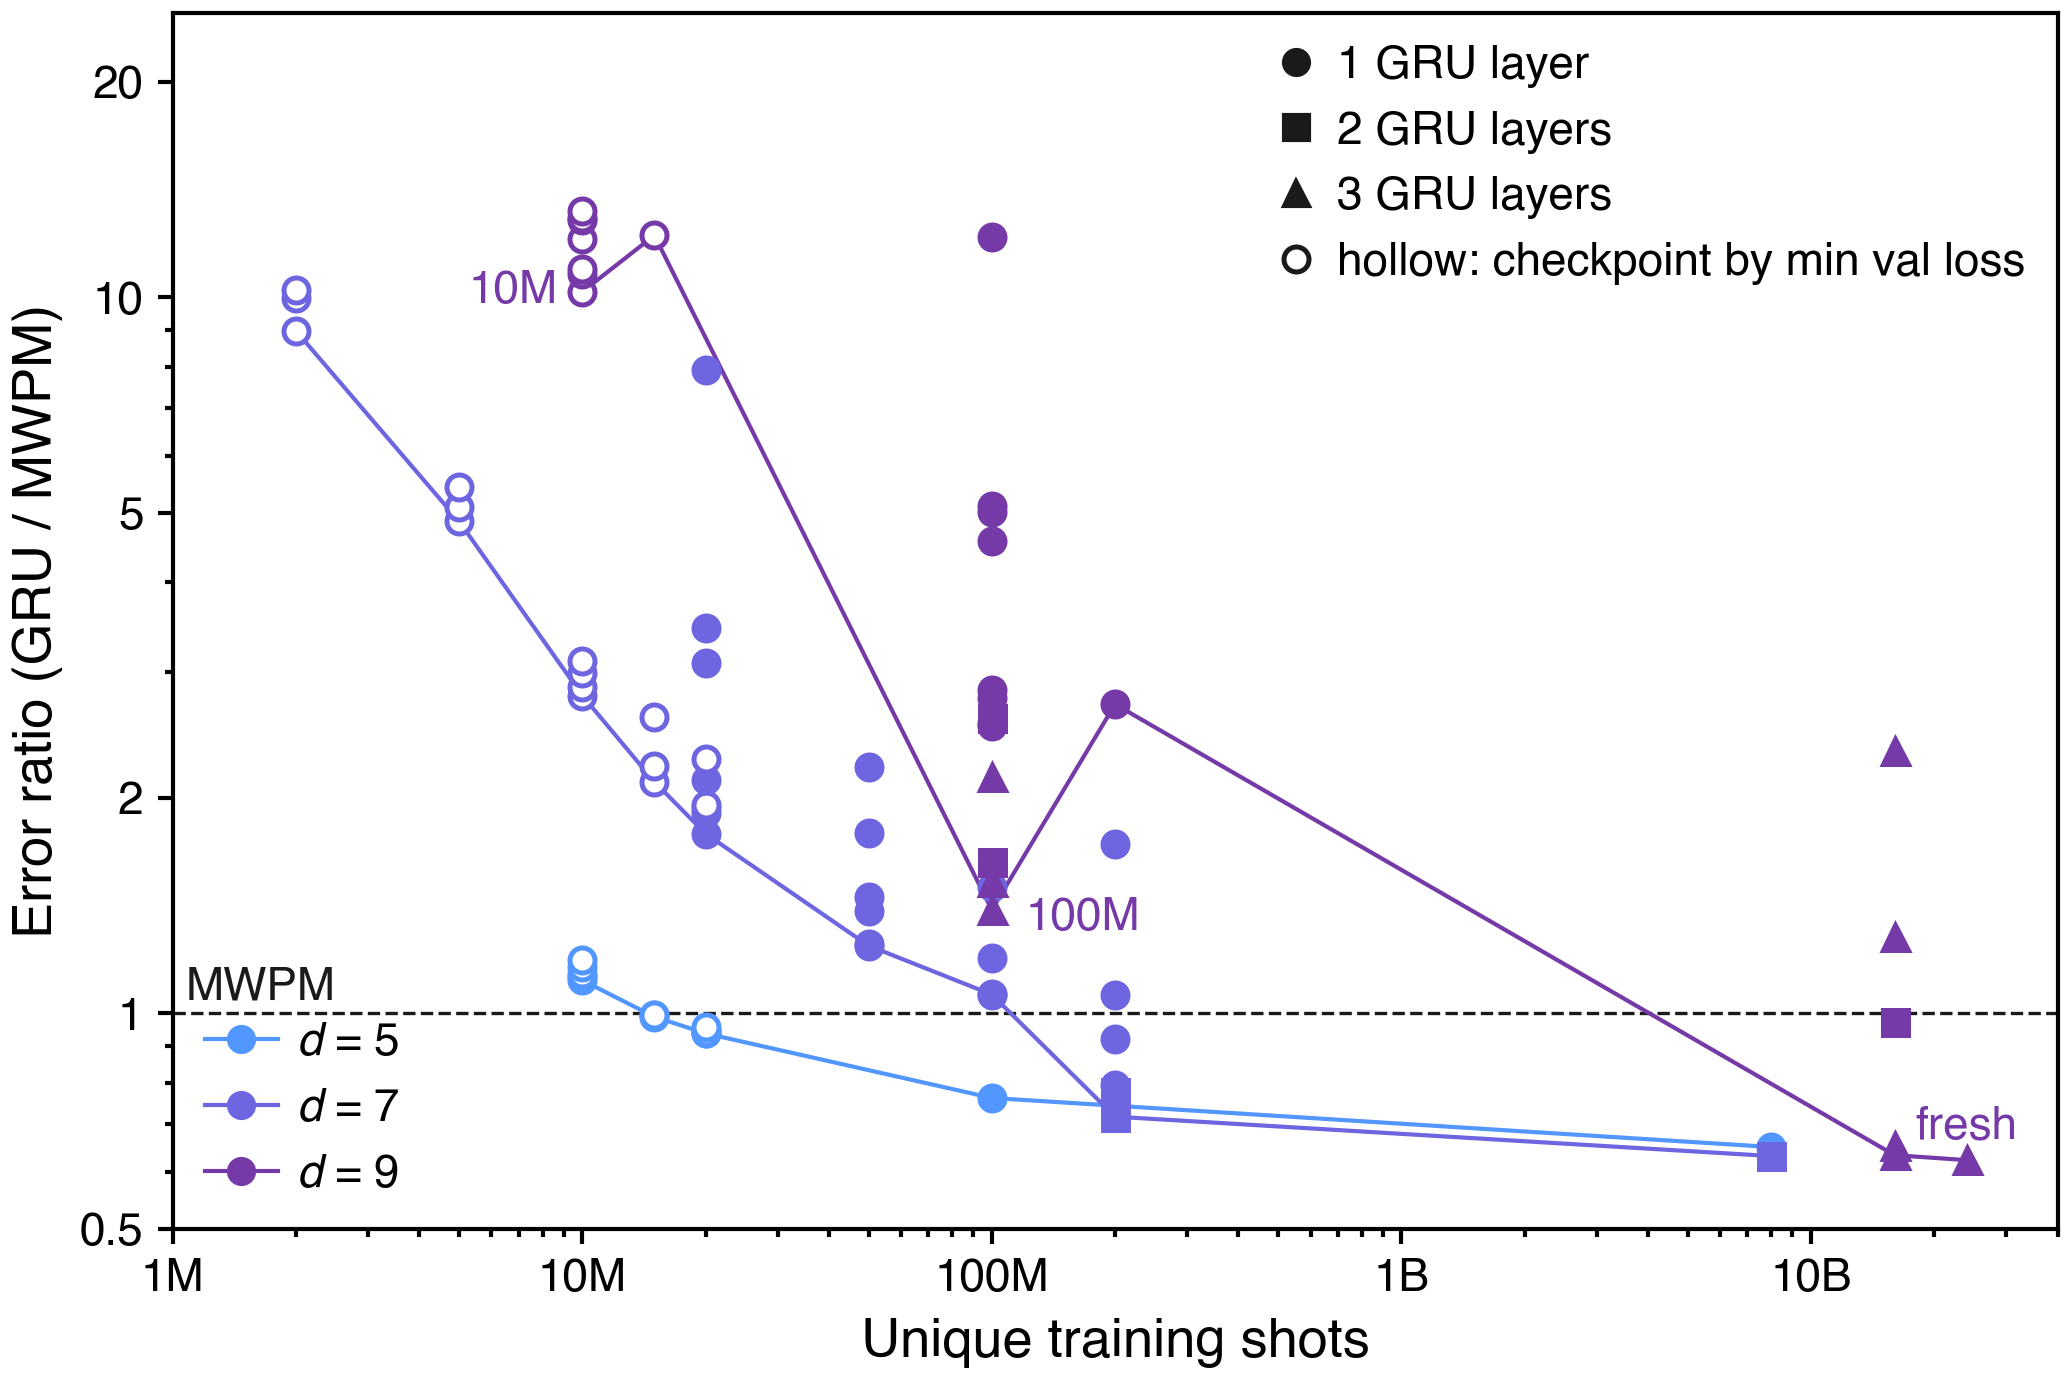
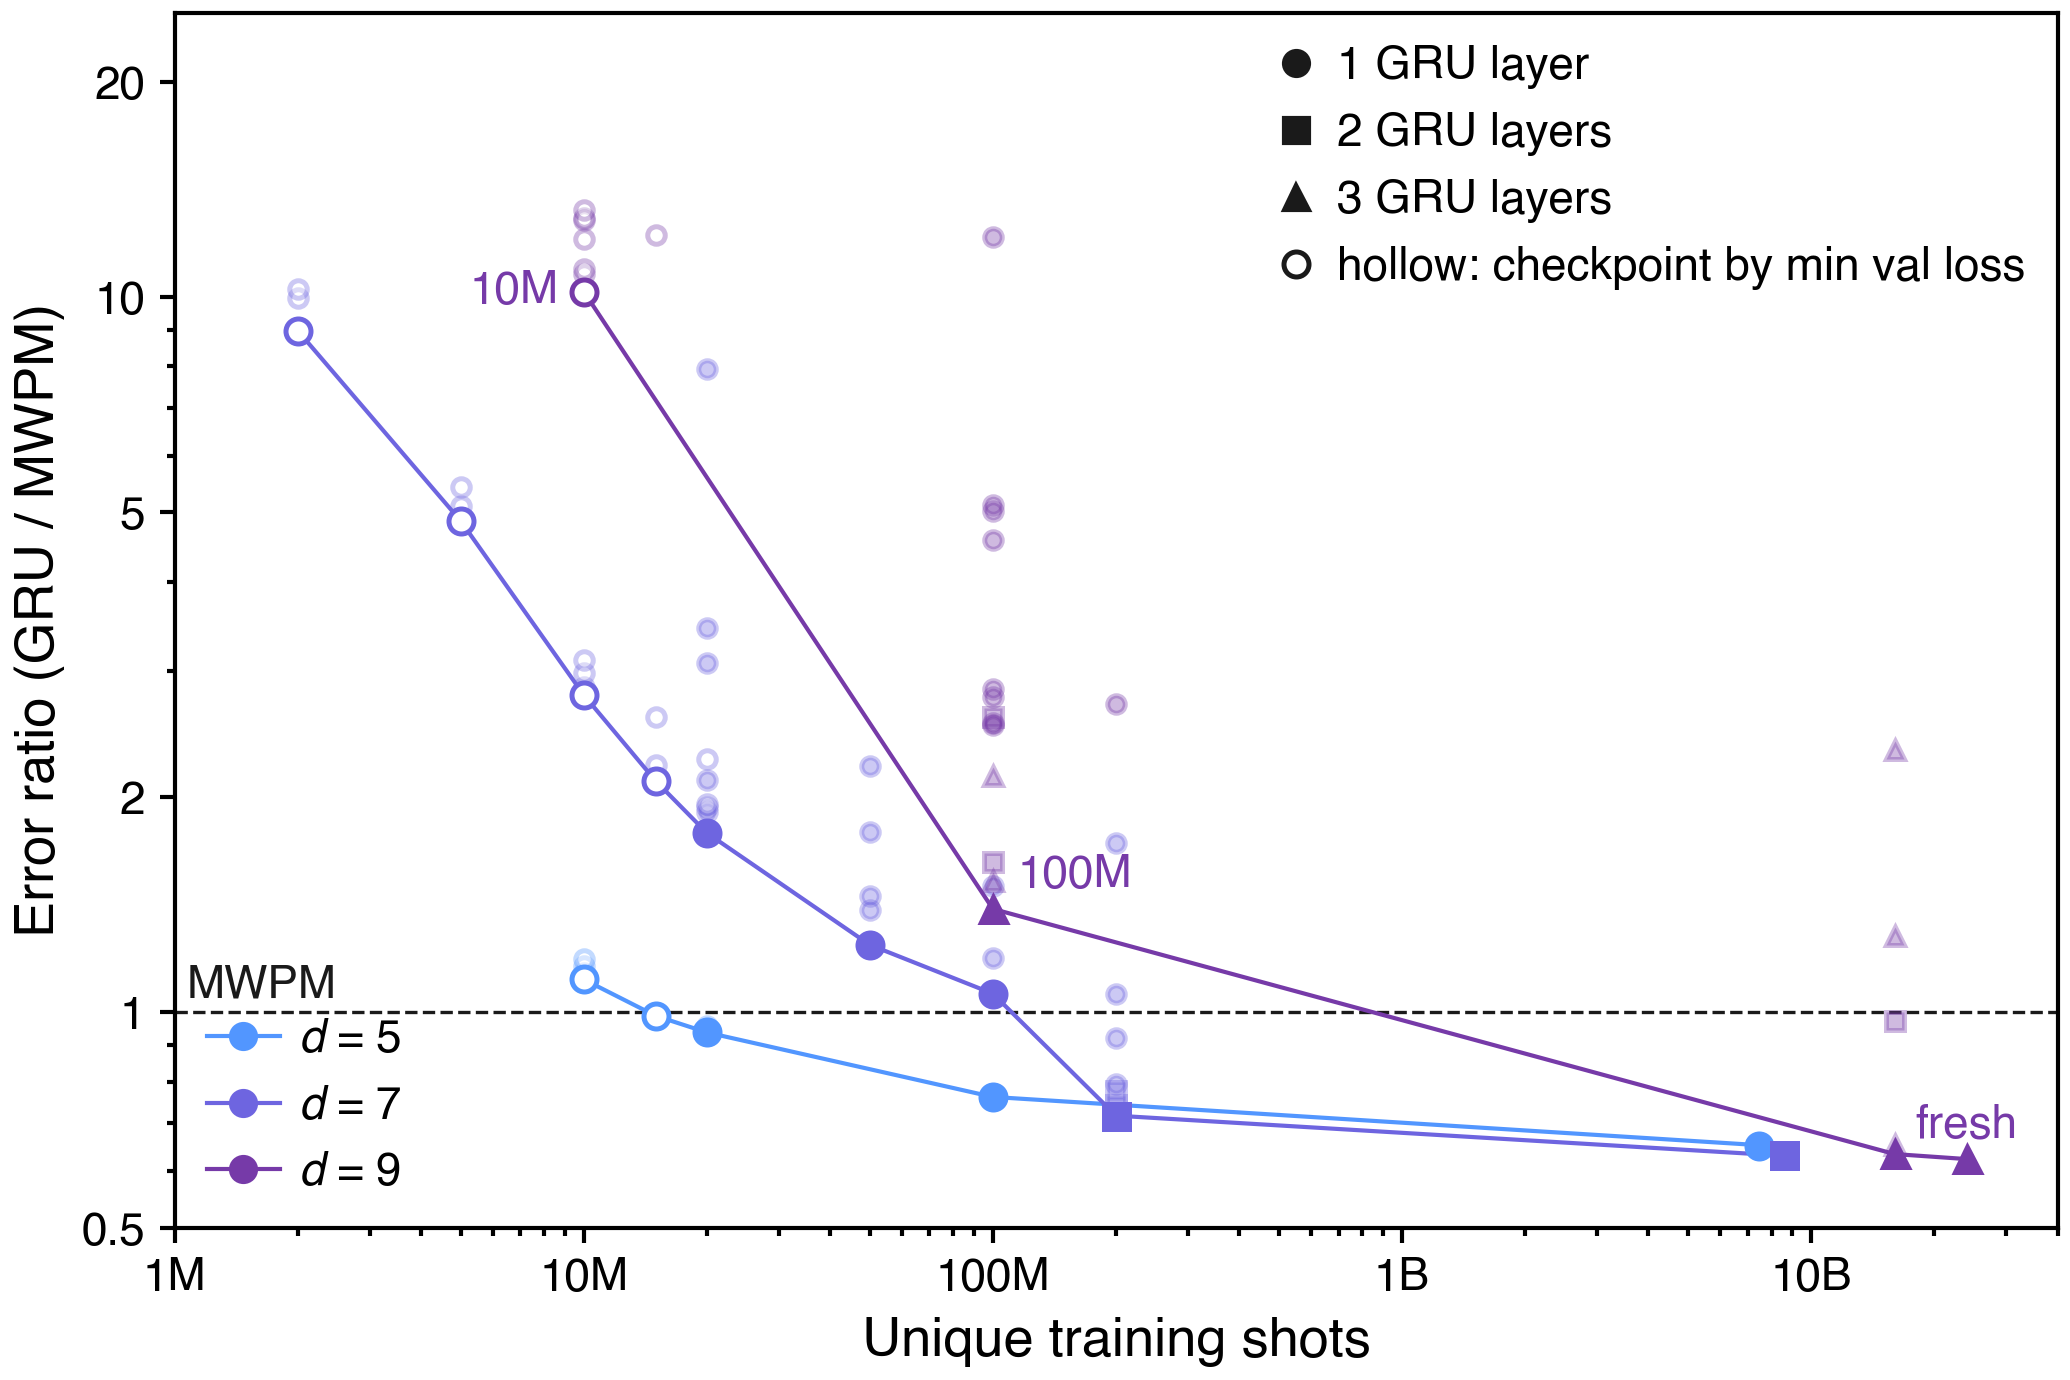
Data scaling figure: running-minimum frontier per d, faded off-frontier runs

diff --git a/figures/fig_data_scaling.py b/figures/fig_data_scaling.py
@@ -1,5 +1,5 @@
 # Created: 2026-10-28
-# Last modified: 2026-10-28
+# Last modified: 2026-10-28 (running-minimum frontier per d, faded non-frontier runs, 8B marker jitter)
 # GRU / MWPM ratio at p = 0.004 against unique training shots: dataset size for fixed sets,
 # 100M x epochs for fresh-shot runs. Hollow markers: older runs checkpointed by min val loss.
 #   python figures/fig_data_scaling.py
@@ -20,9 +20,12 @@ POSTER = ROOT / "figures" / "poster"
 FRAME_IN = (6.9, 4.6)
 LABEL_PT, TICK_PT = 13, 11
 MARKER_MS = 6
+OFF_FRONTIER_SCALE, OFF_FRONTIER_ALPHA = 0.7, 0.35
+# d = 5 and d = 7 fresh-shot runs both sit at 8B; markers only are shifted by this many decades
+X_JITTER_DEX = {(5, 8e9): -0.03, (7, 8e9): 0.03}
 DEPTH_MARKER = {1: "o", 2: "s", 3: "^"}
 # d = 9 point labels as (text, offset in points, ha); "fresh" goes on the best fresh-shot run
-LABELLED_D9 = {1e7: ("10M", (-MARKER_MS, 0), "right"), 1e8: ("100M", (MARKER_MS + 2, -2), "left")}
+LABELLED_D9 = {1e7: ("10M", (-MARKER_MS, 0), "right"), 1e8: ("100M", (MARKER_MS, MARKER_MS + 2), "left")}
 FRESH_LABEL = ("fresh", (0, MARKER_MS + 2), "center")
 
 
@@ -57,26 +60,32 @@ def load():
     return path, runs, skipped
 
 
-def best_per_size(runs, d):
-    best = {}
-    for r in runs:
-        if r["d"] == d and (r["shots"] not in best or r["ratio"] < best[r["shots"]]["ratio"]):
-            best[r["shots"]] = r
-    return [best[s] for s in sorted(best)]
+def frontier(runs, d):
+    # running minimum: a run is on the frontier if it beats every run with fewer or equal unique shots
+    points, lowest = [], float("inf")
+    for r in sorted((r for r in runs if r["d"] == d), key=lambda r: (r["shots"], r["ratio"])):
+        if r["ratio"] < lowest and not (points and points[-1]["shots"] == r["shots"]):
+            points.append(r)
+            lowest = r["ratio"]
+    return points
 
 
 def plot(runs):
     fig, ax = plt.subplots(figsize=FRAME_IN)
     for d in sorted({r["d"] for r in runs}):
         color = poster_style.DIST[d]
-        best = best_per_size(runs, d)
-        ax.plot([r["shots"] for r in best], [r["ratio"] for r in best], lw=1, color=color, zorder=2)
+        front = frontier(runs, d)
+        ax.plot([r["shots"] for r in front], [r["ratio"] for r in front], lw=1, color=color, zorder=2)
         for r in (r for r in runs if r["d"] == d):
-            ax.plot(r["shots"], r["ratio"], ls="none", marker=DEPTH_MARKER[r["depth"]], ms=MARKER_MS,
-                    mec=color, mfc="white" if r["min_val_loss"] else color, mew=1.2, zorder=3)
+            on_front = any(r is f for f in front)
+            x = r["shots"] * 10 ** X_JITTER_DEX.get((d, r["shots"]), 0)
+            ax.plot(x, r["ratio"], ls="none", marker=DEPTH_MARKER[r["depth"]],
+                    ms=MARKER_MS if on_front else MARKER_MS * OFF_FRONTIER_SCALE,
+                    alpha=1 if on_front else OFF_FRONTIER_ALPHA, mec=color,
+                    mfc="white" if r["min_val_loss"] else color, mew=1.2, zorder=4 if on_front else 3)
         if d == 9:
-            fresh = min((r for r in best if r["data"].startswith("fresh")), key=lambda r: r["ratio"])
-            for r in best:
+            fresh = min((r for r in front if r["data"].startswith("fresh")), key=lambda r: r["ratio"])
+            for r in front:
                 label = LABELLED_D9.get(r["shots"], FRESH_LABEL if r is fresh else None)
                 if label:
                     text, offset, ha = label
@@ -128,7 +137,7 @@ if __name__ == "__main__":
         print(f"d={r['d']} {r['width']:7s} {r['data']:17s} shots {r['shots']:.1e}  ratio {r['ratio']:.3f}"
               f"{'  min val loss' if r['min_val_loss'] else ''}")
     for d in (5, 7, 9):
-        print(f"best d={d}:", ", ".join(f"{r['shots']:.0e} {r['ratio']:.3f}" for r in best_per_size(runs, d)))
+        print(f"frontier d={d}:", ", ".join(f"{r['shots']:.1e} {r['width']} {r['ratio']:.3f}" for r in frontier(runs, d)))
     for reason, r in skipped:
         if r["p"] == "0.004" and r["Done?"] == "Yes" and r["reset_after"] == "FALSE":
             print(f"skipped ({reason}): d={r['d']} {r['Width']} {r['Data']} {r['Relative to MWPM']}")
